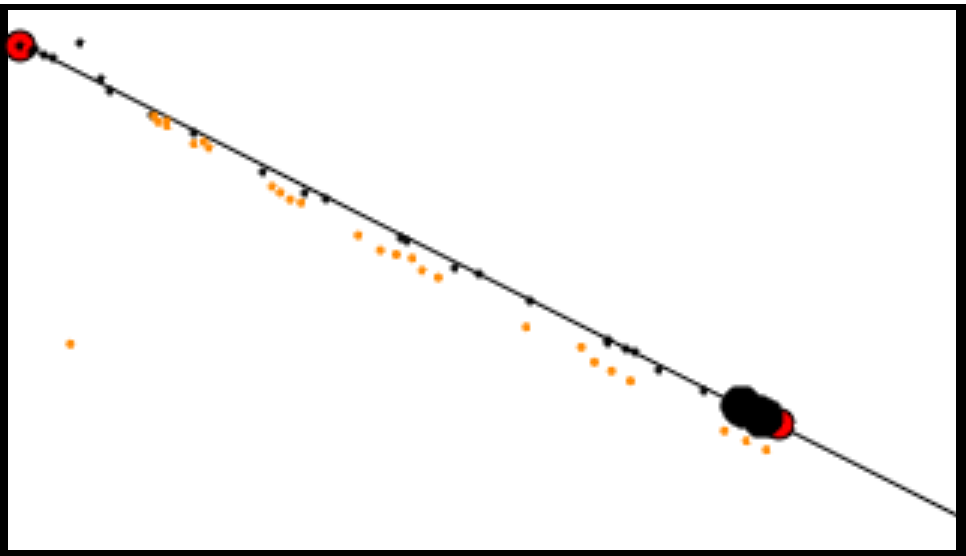
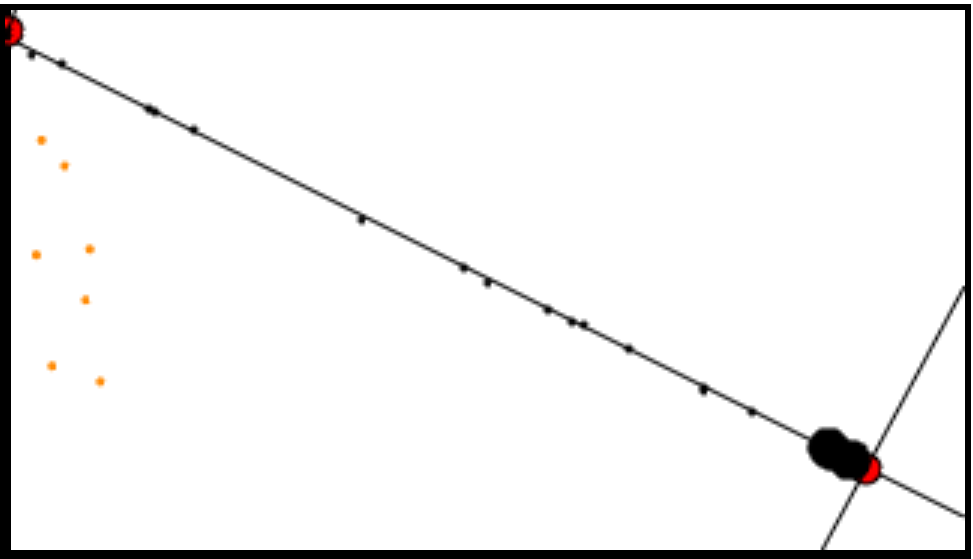
Update momentanpol.tex

diff --git a/src/momentanpol/momentanpol3_1.html b/src/momentanpol/momentanpol3_1.html
@@ -50,28 +50,14 @@
             const line = Line.fromRegressionLine(result, g);
             const { p1, p2 } = result.getMaxDist(g);
             group.addPoints([p1, p2]);
+            group.lines.push(new Line({p1, p2}))
             result.draw(g);
 
-            const threshold = 5;
-            if (group.pts[0].length > threshold) {
-                const l = group.getPoint(0);
-                const b = group.getPoint(0, threshold);
-                const va = {
-                    x: l.x - b.x,
-                    y: l.y - b.y,
-                }
-                const l1 = new Line({ p1: l, p2: group.getPoint(1) });
-                const l2 = new Line({ p1: b, p2: group.getPoint(1, threshold) });
-
-                const dw = (Math.atan(l1.m) - Math.atan(l2.m) + Math.PI) % Math.PI;
-
-                const rp = {
-                    x: l.x - va.y / dw,
-                    y: l.y + va.x / dw,
-                };
-
-                data.add(rp);
-            }
+            const pol = group.momentanpol(5);
+            data.add(pol);
+            group.pts.forEach(p => {
+                new Line({p1: pol, p2: p[p.length - 1]}).draw(g);
+            });
 
             data.draw(g);
             data.getChart().exe(globalTestVariables.ctx3);

diff --git a/src/momentanpol/momentanpol1_1.html b/src/momentanpol/momentanpol1_1.html
@@ -41,32 +41,10 @@
             const { p1, p2 } = result.getMaxDist(g);
 
             group.addPoints([p1, p2]);
+            group.lines.push(new Line({p1, p2}));
             result.draw(g);
 
-            const threshold = 20;
-            if (group.pts[0].length > threshold) {
-                const l = group.getPoint(0);
-                const b = group.getPoint(0, threshold);
-
-                const r1 = group.getPoint(1);
-                const r2 = group.getPoint(1, threshold);
-
-                const va = {
-                    x: l.x - b.x,
-                    y: l.y - b.y,
-                }
-                const l1 = new Line({ p1: l, p2: r1 });
-                const l2 = new Line({ p1: b, p2: r2 });
-
-                const dw = (Math.atan(l1.m) - Math.atan(l2.m) + Math.PI) % Math.PI;
-
-                const rp = {
-                    x: (l.x + b.x) / 2 - va.y / dw,
-                    y: (l.y + b.y) / 2 + va.x / dw,
-                };
-
-                data.add(rp);
-            }
+            data.add(group.momentanpol(20));
 
             data.draw(g);
             data.getChart(0, 1, { ymax: 0.3 }).exe(globalTestVariables.ctx3);

diff --git a/src/momentanpol/momentanpol1_2.html b/src/momentanpol/momentanpol1_2.html
@@ -43,28 +43,7 @@
             group.lines.push(Line.fromRegressionLine(result, g));
             result.draw(g);
 
-            const threshold = 20;
-            if (group.pts[0].length > threshold) {
-                const l = group.getPoint(0);
-                const b = group.getPoint(0, threshold);
-
-                const va = {
-                    x: l.x - b.x,
-                    y: l.y - b.y,
-                }
-
-                const l1 = group.lines[group.lines.length - 1];
-                const l2 = group.lines[group.lines.length - threshold];
-
-                const dw = (Math.atan(l1.m) - Math.atan(l2.m) + Math.PI) % Math.PI;
-
-                const rp = {
-                    x: (l.x + b.x) / 2 - va.y / dw,
-                    y: (l.y + b.y) / 2 + va.x / dw,
-                };
-
-                data.add(rp);
-            }
+            data.add(group.momentanpol(20));
 
             data.draw(g);
             data.getChart(0, 1, {ymax: 0.3}).exe(globalTestVariables.ctx3);

diff --git a/src/momentanpol/momentanpol2_1.html b/src/momentanpol/momentanpol2_1.html
@@ -52,28 +52,7 @@
             group.lines.push(Line.fromRegressionLine(result, g));
             result.draw(g);
 
-            const threshold = 20;
-            if (group.pts[0].length > threshold) {
-                const l = group.getPoint(0);
-                const b = group.getPoint(0, threshold);
-
-                const va = {
-                    x: l.x - b.x,
-                    y: l.y - b.y,
-                }
-
-                const l1 = group.getLine();
-                const l2 = group.getLine(threshold);
-
-                const dw = (Math.atan(l1.m) - Math.atan(l2.m) + Math.PI) % Math.PI;
-
-                const rp = {
-                    x: (l.x + b.x) / 2 - va.y / dw,
-                    y: (l.y + b.y) / 2 + va.x / dw,
-                };
-
-                data.add(rp);
-            }
+            data.add(group.momentanpol(20));
 
             data.draw(g);
             data.drawDeviation(g);

diff --git a/src/momentanpol/momentanpol2_2.html b/src/momentanpol/momentanpol2_2.html
@@ -53,28 +53,7 @@
             group.lines.push(Line.fromRegressionLine(result, g));
             result.draw(g);
 
-            const threshold = 20;
-            if (group.pts[0].length > threshold) {
-                const l = group.getPoint(0);
-                const b = group.getPoint(0, threshold);
-
-                const va = {
-                    x: l.x - b.x,
-                    y: l.y - b.y,
-                }
-
-                const l1 = group.getLine();
-                const l2 = group.getLine(threshold);
-
-                const dw = (Math.atan(l1.m) - Math.atan(l2.m) + Math.PI) % Math.PI;
-
-                const rp = {
-                    x: (l.x + b.x) / 2 - va.y / dw,
-                    y: (l.y + b.y) / 2 + va.x / dw,
-                };
-
-                data.add(rp);
-            }
+            data.add(group.momentanpol(20));
 
             data.draw(g);
             data.drawDeviation(g);

diff --git a/src/scripts/group.js b/src/scripts/group.js
@@ -77,16 +77,15 @@ class Group {
         const p1 = mu(1);
         const p2 = mu(threshold + 1);
 
+        const w1 = Math.atan(this.lines[this.lines.length - 1].m);
+        const w2 = Math.atan(this.lines[this.lines.length - (threshold + 1)].m);
+
         const v = {
             x: p1.x - p2.x,
             y: p1.y - p2.y
         };
 
-        let dw = ((
-            Math.atan(this.lines[this.lines.length - 1].m) -
-            Math.atan(this.lines[this.lines.length - (threshold + 1)].m))
-            + Math.PI) % Math.PI;
-
+        let dw = ((w1 - w2) + Math.PI) % Math.PI;
         dw = dw > Math.PI / 2 ? dw - Math.PI : dw;
 
         return {
@@ -102,7 +101,7 @@ class Group {
     }
 
     addPoints(pts) {
-        if (!pts?.length) {
+        if (!pts?.length || pts.some(e => !e)) {
             return;
         }
         else if (!this.pts.length) {

diff --git a/index.html b/index.html
@@ -98,10 +98,10 @@
                 title: "Momentanpol bei gegebenem Glied.",
                 test: {
                     "drehendes Rad": [
-                        "Weitest entfernte Punkte",
+                        "Weitest entfernte Punkte (20 Iter.)",
                         "5 weiteste Punkte",
                         "Lucas-Kanade",
-                        "Lucas-Kanade nach 5 Iter.",
+                        "Lucas-Kanade nach 20 Iter.",
                     ],
                     "rotation": [
                         "weitest entfernte Punkte",

diff --git a/src/momentanpol/momentanpol1_3.html b/src/momentanpol/momentanpol1_3.html
@@ -40,6 +40,7 @@
             result?.draw(g);
             group.draw(g, true);
             data.add(group.momentanpol());
+
             data.draw(g);
             data.getChart(0, 1, {ymax: 0.3}).exe(globalTestVariables.ctx3);
             data.y.fillText(globalTestVariables.txt2, "y", globalTestVariables.cnv_height)

diff --git a/src/momentanpol/momentanpol3_3.html b/src/momentanpol/momentanpol3_3.html
@@ -52,7 +52,7 @@
             const pol = group.momentanpol(5);
             group.pts.forEach(p => {
                 new Line({p1: pol, p2: p[p.length - 1]}).draw(g);
-            })
+            });
             data.add(pol);
 
             data.draw(g);

diff --git a/src/momentanpol/momentanpol3_2.html b/src/momentanpol/momentanpol3_2.html
@@ -52,7 +52,7 @@
             const pol = group.momentanpol();
             group.pts.forEach(p => {
                 new Line({p1: pol, p2: p[p.length - 1]}).draw(g);
-            })
+            });
             data.add(pol);
             data.draw(g);
 

diff --git a/content/chapter-momentanpol.tex b/content/chapter-momentanpol.tex
@@ -62,7 +62,35 @@ sodass der Momentanpol $P$ über die Beziehung $\vec{r}_P = \vec{r}_A + \vec{r}_
 
 Diese Formel soll nun angewendet werden um den Momentanpol von Elementen zu bestimmen dessen Bewegung in Videos nachvollzogen wird.
 
-% TODO implementation
+\section{Implementation}
+
+Die \lstinline{group} Klasse hat eine entsprechende \lstinline{momentanpol} Funktion erhalten.
+Dieser implementiert hier zunächst eine Berechnung des Erwartungswertes für einen Punkt.
+Im Grunde ist diese implementation äquivalent zu Listing~\ref{lst:data_mu}, jedoch wird hier ein Punkt zurückgegeben, welcher also die Eigenschaften \lstinline{x} und \lstinline{y} stellt.
+
+\begin{lstlisting}[language=JavaScript, caption={Definition der \lstinline{momentanpol} Funktion, welche in der \lstinline{group} Klasse definiert ist Die Ermittlung der Punkte \lstinline{p1} und \lstinline{p2}, sowie der Winkel \lstinline{w1} und \lstinline{w2} wurde hier aus Platzgründen weggelassen.}\label{lst:group_momentanpol}]
+momentanpol(threshold = 1) {
+    /**
+    * Ermittlung von p1, p2, m1, m2
+    */
+
+    const v = { x: p1.x - p2.x, y: p1.y - p2.y };
+    let dw = ((w1 - w2) + Math.PI) % Math.PI;
+    dw = dw > Math.PI / 2 ? dw - Math.PI : dw;
+
+    return {
+        x: (p1.x + p2.x) / 2 - v.y / dw,
+        y: (p1.y + p2.y) / 2 + v.x / dw,
+    }
+}
+\end{lstlisting}
+
+\lstinline{p1} und \lstinline{p2} sind jeweils der letzte Punkt und jener der vor \lstinline{threshold} Iterationen hinzugefügt wurde.
+Analog dazu sind \lstinline{w1} und \lstinline{w2} die Winkel der Geraden welche als letztes und vor \lstinline{threshold} Iterationen hinzugefügt wurden.
+Hierfür hat die \lstinline{Group} Klasse die Eigenschaft \lstinline{lines} bekommen, welche in etwa die selbe Aufgabe wie die \lstinline{pts} Eigenschaft erfüllen soll.
+Diese Liste wird entsprechend von den Tests analog zu \lstinline{pts} gefüllt.
+Es muss hier noch garantiert werden, dass in jedem Fall ein Winkel unter $\pi$ eingesetzt wird und anschließend wird dieser noch auf einen Wert gesetzt dessen Betrag in jedem Fall unter $\pi / 2$ ist. Damit wird sichergestellt, dass wenn durch den eingeschlossenen Winkel geteilt wird in jedem Fall der kleinere Betrag genommen wird.
+Ein ansonsten daraus resultierender Fehler würde sich bei der Berechnung des sich translativ bewegenden Gliedes zeigen.
 
 \section{Das drehende Rad}\label{ch:drehendesRad}
 
@@ -80,19 +108,18 @@ Das Rollen wird durch den \lstinline{g2.use} Befehl simuliert, indem die Rotatio
 Die Animation wird dann an \lstinline{globalTestVariables.g} übergeben.
 Da kein \name{mec2} Modell definiert ist werden dessen Befehle, wie in Kapitel~\ref{ch:simulation_js} beschrieben, ignoriert.
 
-Zur Ermittlung des Momentanpols ist es nun notwendig die absolute Geschwindigkeit eines Punktes auf dem Glied, sowie die Rotationsgeschwindigkeit des Gliedes selbst zu ermitteln.
-Die absolute Geschwindigkeit soll zunächst ermittelt werden, indem wie in Kapitel~\ref{ch:vergleich_verlauf_randpunkte} beschrieben die Bewegung der äußersten Randpunkte gemessen wird.
-Unter der Vorrausetzung, dass diese in etwa den selben Punkt auf dem Glied bezeichnen, sollten diese eine ausreichende Approximation darstellen.
+Zur Ermittlung des Momentanpols ist es nun notwendig die absolute Geschwindigkeit eines fest mit dem Glied verbundenen Punktes, sowie die Rotationsgeschwindigkeit des Gliedes zu ermitteln.
+Die absolute Geschwindigkeit wird zunächst ermittelt, indem wie in Kapitel~\ref{ch:vergleich_verlauf_randpunkte} beschrieben die Bewegung der äußersten Randpunkte gemessen wird.
+Unter der Vorausetzung, dass diese in etwa den selben Punkt auf dem Glied bezeichnen, sollten diese eine ausreichende Approximation darstellen.
 Die \lstinline{Group} Klasse speichert hierbei den Pfad der gemessenen Punkte und ordnet diese entsprechend zu.
-Durch den Gradienten zweier Punkte in dieser Liste kann so eine Geschwindigkeit berechnet werden.
-Die Rotationsgeschwindigkeit wird ähnlich gemessen.
-Hierfür hat die \lstinline{Group} Klasse die Eigenschaft \lstinline{lines} bekommen, welche in etwa die selbe Aufgabe wie die \lstinline{pts} Eigenschaft erfüllen soll.
-Wird der Gradient über die selbe Anzahl an Iterationen für die Winkelgeschwindigkeit wie für die absolute Geschwindigkeit berechnet, so kann Gleichung~\ref{eq:euler_rAP} genutzt werden um die Position des Momentanpols zu ermitteln.
+Durch den Gradienten zweier Punkte in dieser Liste wird so eine Geschwindigkeit berechnet.
+Die Rotationsgeschwindigkeit wird ähnlich gemessen, wie in Listing~\ref{lst:group_momentanpol} zu sehen ist.
 
+Wird der Gradient über die selbe Anzahl an Iterationen für die Winkelgeschwindigkeit wie für die absolute Geschwindigkeit berechnet, so kann Gleichung~\ref{eq:euler_rAP} genutzt werden um die Position des Momentanpols zu ermitteln.
 Dieser stellt hier wieder eine Schätzung dar, da die Eingangsparameter mit einer Ungenauigkeit behaftet sind.
 Des Weiteren ist anzumerken, dass die Anzahl der Iterationen zwischen den beiden zu vergleichenden Bildern im vorhinein festgelegt werden muss.
 Ist diese Zahl zu klein, oder zu groß, so folgt daraus eine größere Standardabweichung.
-Diese optimale Anzahl ist jedoch je nach Geschwindigkeit des sich bewegenden Gliedes unterschiedlich, sodass zur Ermittlung dieses weitere Untersuchung notwendig sind.
+Diese optimale Anzahl ist jedoch je nach Geschwindigkeit des sich bewegenden Gliedes unterschiedlich, sodass zur automatisierten Ermittlung weitere Untersuchung notwendig sind.
 Für den Versuch des Rades wird hier lediglich die Y-Koordinate betrachtet.
 Tatsächlich befindet sich der Erwartungswert des Momentanpols, unter Berücksichtigung der Standardabweichung, in etwa im Wälzpunkt des Rades.
 
@@ -118,7 +145,8 @@ Der Verlauf der nun verfolgten Punkte verspricht weniger Streuung der Koordinate
 Des Weiteren soll nicht mehr die Gerade der am weitesten auseinander liegenden Punkte genutzt werden, sondern die orthogonale Regressionsgerade, welche in Kapitel~\ref{ch:orthogonale_regression} beschrieben wurde.
 Diese verspricht ebenfalls weniger Streuung bei der Ermittlung des vom Glied eingelegten Winkels.
 
-Die Berechnung des Momentanpols ist ansonsnten äquivalent.
+Die beschriebene Implementation erfordert hier jedoch nur eine andersartige Befüllung der \lstinline{pts} und \lstinline{lines} Eigenschaften des entsprechenden \lstinline{Group} Objekt.
+Die Berechnung des Momentanpols und die genutzten Funktionen sind ansonnsten äquivalent.
 In Abbildung~\ref{fig:drehendes_rad_1_4} ist zu sehen, dass die Berechnung in der Tat eine erheblich geringere Streuung aufweisen.
 Die gezeigten Ansätze überspringen jeweils 20 Iterationen.
 Dieser Wert ist experimentell ermittelt und sollte der Geschwindigkeit der Drehung angepasst werden.
@@ -159,9 +187,10 @@ Ein eindeutiges Ergebnis zu bekommen ist hier nicht zu erwarten.
 Im Gegenteil lässt hier ein besonders schlechtes Ergebnis den Schluss zu, dass es sich entsprechend um ein sich translativ bewegendes Glied handelt.
 Bei der Berechnung des Momentanpols des sich translativ bewegenden Gelenkes teilweise ein Winkel von in etwa $\pi$ ermittelt wird, weshalb in Abbildung~\ref{fig:translatives_glied_1} die Momentanpole teilweise auf dem Pfad des Gelenkes liegen.
 Im Vergleich mit dem Ansatz welcher die absolute Geschwindigkeit über Lucas-Kanade und die Winkelgeschwindigkeit über die Regressionsgerade bestimmt wird dieser Fehler allerdings nicht weiter beachtet, da der letztere dem ersten offensichtlich überlegen ist.
-Beim zweiten Ansatz wurde aus diesem Grund der eingeschlossene Winkel durch \lstinline{dw = dw > Math.PI / 2 ? dw - Math.PI : dw;} korrigiert, was jeweils den kleineren der beiden eingeschlossenen Winkel bevorzugt.
+Beim zweiten Ansatz wurde aus diesem Grund der eingeschlossene Winkel durch \lstinline{dw = dw > Math.PI / 2 ? dw - Math.PI : dw;} korrigiert wie in Listing~\ref{lst:group_momentanpol} gesehen werden kann, damit jeweils den kleineren der beiden eingeschlossenen Winkel bevorzugt.
 Der rote Punkt in Abbildung~\ref{fig:translatives_glied_3} stellt hier den verfolgten Punkt dar und nicht den Momentanpol.
-Die Standardabweichung, sofern ein Vergleich an dieser Stelle sinnvoll ist, hat im ersten Versuch einen Wert jeweils um die $100$, während dieser im zweiten Ansatz nicht mehr berechenbar scheint\footnote{Die jeweils berechnete Standardabweichung wird hier als \lstinline{NaN} angegeben.}. % TODO warum?
+Die Standardabweichung zu vergleichen scheint an dieser Stelle weniger sinnvoll.
+Sie ist in beiden Fällen sehr hoch und wird nur durch die Tatsache niedrig gehalten, dass \lstinline{Data} Koordinaten außerhalb des Canvas ignoriert um die Gauß-Verteilung mit den gemessenen Werten vergleichbar zu halten\footnote{Teilweise auftretende extreme Ausschläge haben einen großen Einfluss auf die Varianz.}
 
 \begin{figure}
     \centering
@@ -177,50 +206,14 @@ Die Standardabweichung, sofern ein Vergleich an dieser Stelle sinnvoll ist, hat 
     \label{fig:translatives_glied_1_3}
 \end{figure}
 
-% \section{Nutzung des Lucas-Kanade Algorithmus}
-
-% Es ist davon auszugehen, dass die vorangegangene Methode eine gewisse Ungenauigkeit mit sich bringt, da die Eingangsparameter bereits mit einer signifikanten Streuung eingehen.
-% Hierbei ist zu vermuten, dass die Nutzung der Punkte mit größter Distanz die größere Fehlerquelle darstellt.
-% Aus diesem Grund soll die Absolutgeschwindigkeit nicht über diese, sondern über die Punkte gemessen werden, welche durch den in Kapitel~\ref{ch:lucas_kanade} eingeührten Algorithmus ermittelt werden.
-
-% Diese Herangehensweise benötigt nun jedoch eine Mischung der Funktionen welche vorher für die Berechnung der unterschiedlichen Bilder genutzt wurde.
-% Für die Bestimmung der Regressionsgerade wird die Punktwolke genommen welche durch die \lstinline{PointCloud.fromImages} ermittelt wird.
-% Die \lstinline{LucasKanade.step} Funktion benötigt jedoch ein \lstinline{cv.Mat} Objekt des Bildes.
-% Deshalb wurde auf der \lstinline{Group} Klasse eine \lstinline{step} Funktion definiert.
-
-% \begin{lstlisting}[language=JavaScript, caption={Definition der \lstinline{step} Funktion der \lstinline{Group} Klasse} \label{lst:group_step}]
-% step(fn) {
-%     this.lucasKanade();
-%     const pts = this.regressionLine();
-
-%     fn?.call(undefined, pts);
-% }
-% \end{lstlisting}
-
-% In Listing~\ref{lst:group_step} wird beschrieben wie der Lucas-Kanade Ansatz zusammen mit der Regressionsgerade genutzt wird.
-% In der \lstinline{lucasKanade} Funktion wird entsprechend das Bild von \lstinline{cnv1} als ein \lstinline{cv.Mat} Objekt ausgelesen und die \lstinline{LucasKanade.step} Funktion aufgerufen.
-% Für diesen Test wird zunächst der \lstinline{maxCorners} für den \name{Shi-Tomasi} Algorithmus auf eins gesetzt, damit nur ein Punkt verfolgt wird.
-% Der Speiche des Rades wurden ebensfalls zwei Punkte hinzugefügt, damit diese als eine Ecke von diesem erkannt werden können.
-% Der dann verfolgte Punkt wird dem \lstinline{Group} Objekt hinzugefügt.
-
-% Die weitergehende Berechnung ist die gleiche wie in Kapitel~\ref{ch:drehendesRad}.
-% Die Standardabweichung des hier ermittelten Momentanpols ist hier viel kleiner.
-% Dies ist auch dann der Fall, wenn direkt aufeinanderfolgende Iterationen genutzt werden.
-% Erhöht man die Anzahl dieser, so reduziert sich die Standardabweichung weiter.
-% Für das sich drehende Rad ist anzumerken, dass wenn der verfolgte Punkt sich im höchsten Punkt des von ihm gezeichneten Zykloiden befindet der Momentanpol dort falsch vorhergesagt wird.
-% Das kann jedoch mit entsprechenden Maßnahmen in einer Nachbearbeitung entfernt werden.
-
-% Für die Ermittlung des Momentanpols des Pendels sind die Ergebnisse sehr viel besser.
-% Dort wird der Momentanpol mit einer Standardabweichung von unter eins korrekt vorhergesagt.
-% Für das sich translativ bewegende Glied steigt die Standardabweichung Erwartungsgemäß in extrem Hohe werte, sodass auch diese als eine vielversprechende Beobachtung bezeichnet werden kann.
 
 % TODO es kann noch mit den Mittelsenkrechten von den Punkte gearbeitet werden statt den Regressionsgeraden. Vielleicht sind die ja genauer.
 
 \section{Beobachtungen}
 Es hat sich gezeigt, dass die naive herangehensweise von den am weitest entfernten Punkten in Verbindung mit der Regressionsgerade durchaus Erwartungswerte liefert welche dem tatsächlichen Momentanpol entsprechen.
-Werden jedoch lediglich Momentaufnahmen betrachtet, so sind diese wahrscheinlich nicht als gute Bezugspunkte für weitere Prognosen zur Zusammenstellung des Mechanismus geeignet.
-Die Kombination aus der Ermittlung der Regressionsgeraden und der Verfolgung von Punkten durch den Lucas-Kanade Algorithmus haben jedoch eine sehr geringe Streuung.
-Es kann also davon ausgegangen werden, dass auf diese Weise ermittelte Erwartungswerte nach nur wenigen Iterationen nutzbare Pole darstellen um einen Mechanismus zu rekonstruieren.
+Werden jedoch lediglich Momentaufnahmen betrachtet, so sind diese wahrscheinlich nicht als gute Bezugspunkte für weitere Prognosen zur Rekonstruktion eines Mechanismus geeignet.
+Die Kombination aus der Ermittlung der Regressionsgeraden und der Verfolgung von Punkten durch den Lucas-Kanade Algorithmus haben jedoch eine geringere Streuung.
+Es kann also davon ausgegangen werden, dass auf diese Weise ermittelte Erwartungswerte nach nur wenigen Iterationen nutzbare Pole darstellen.
 
 Bisher wurde die Ermittlung des Momentanpols eines isolierten Gliedes betrachtet.
 Da ein Mechanismus zwangsläufig aus mehreren Gliedern besteht soll nun betrachtet werden wie ein mehrgliedriges Modell in seine Komponenten geteilt werden kann.
